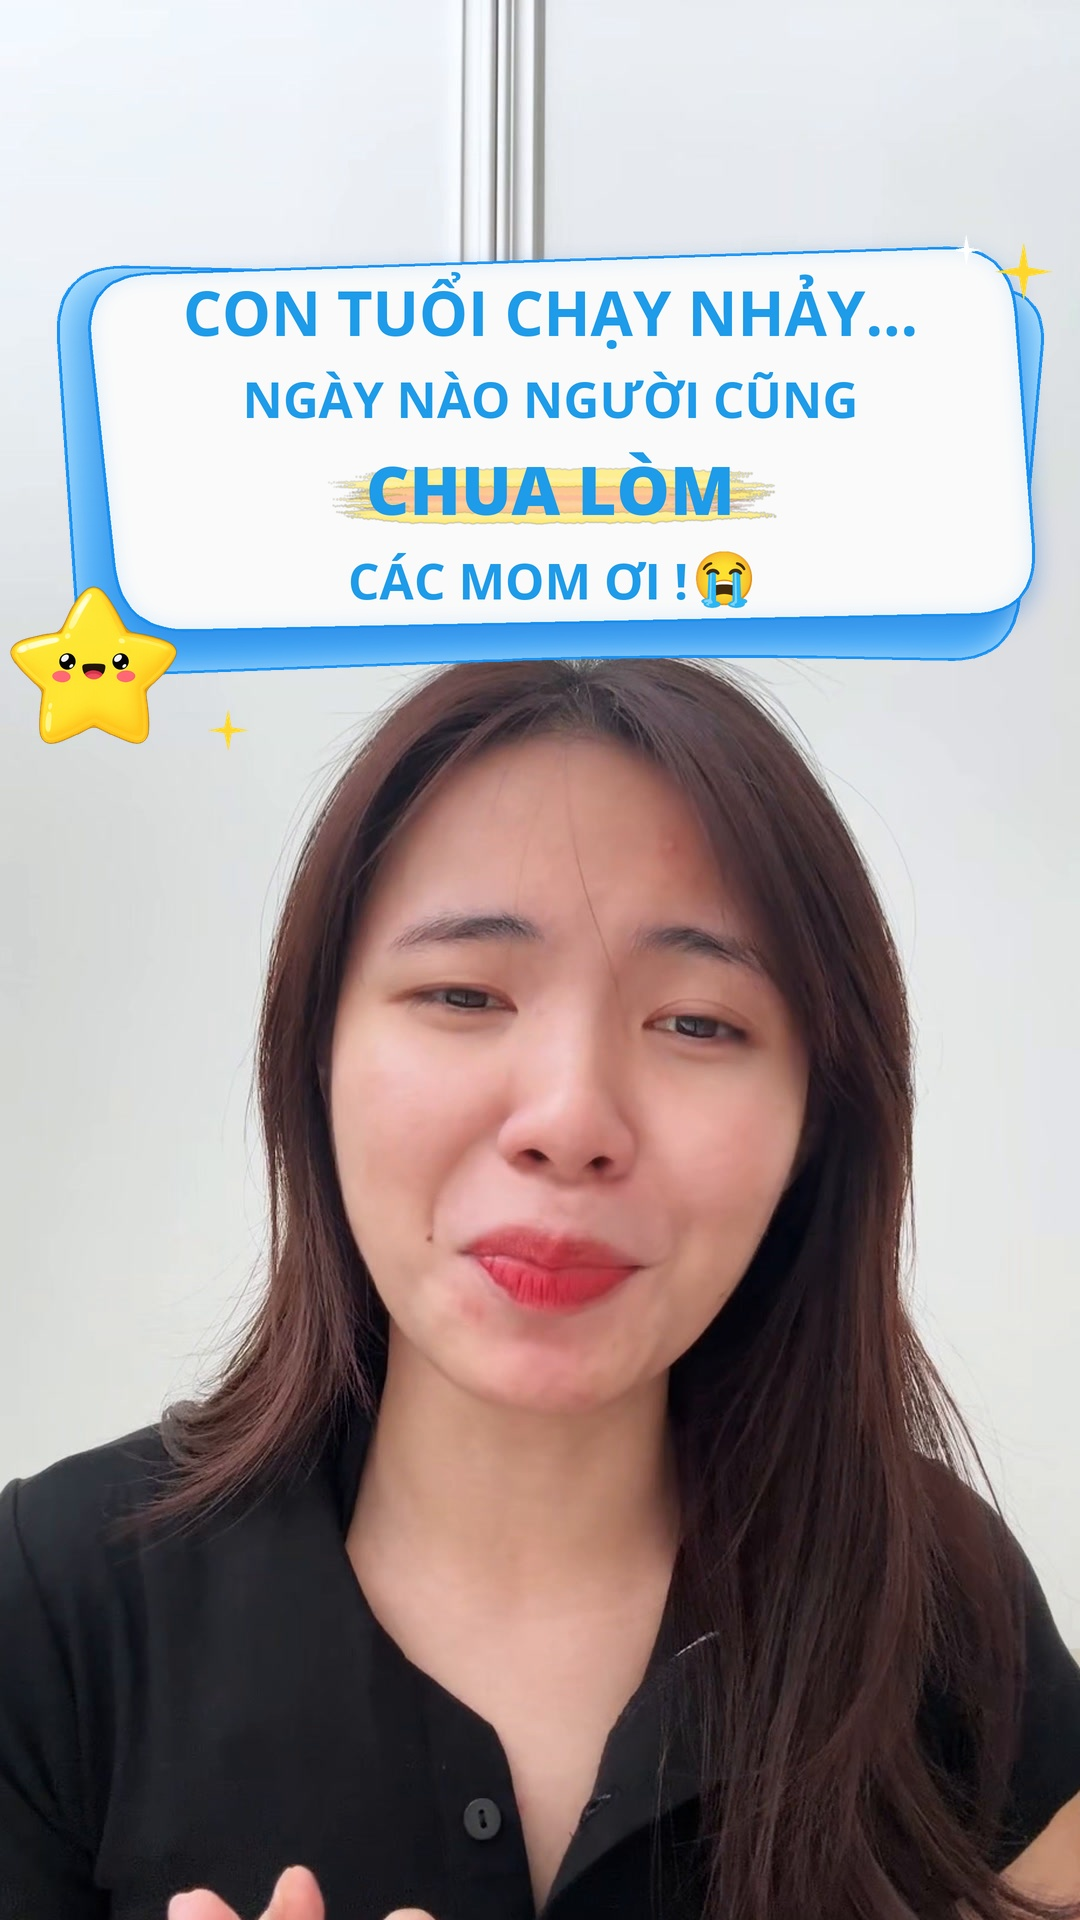
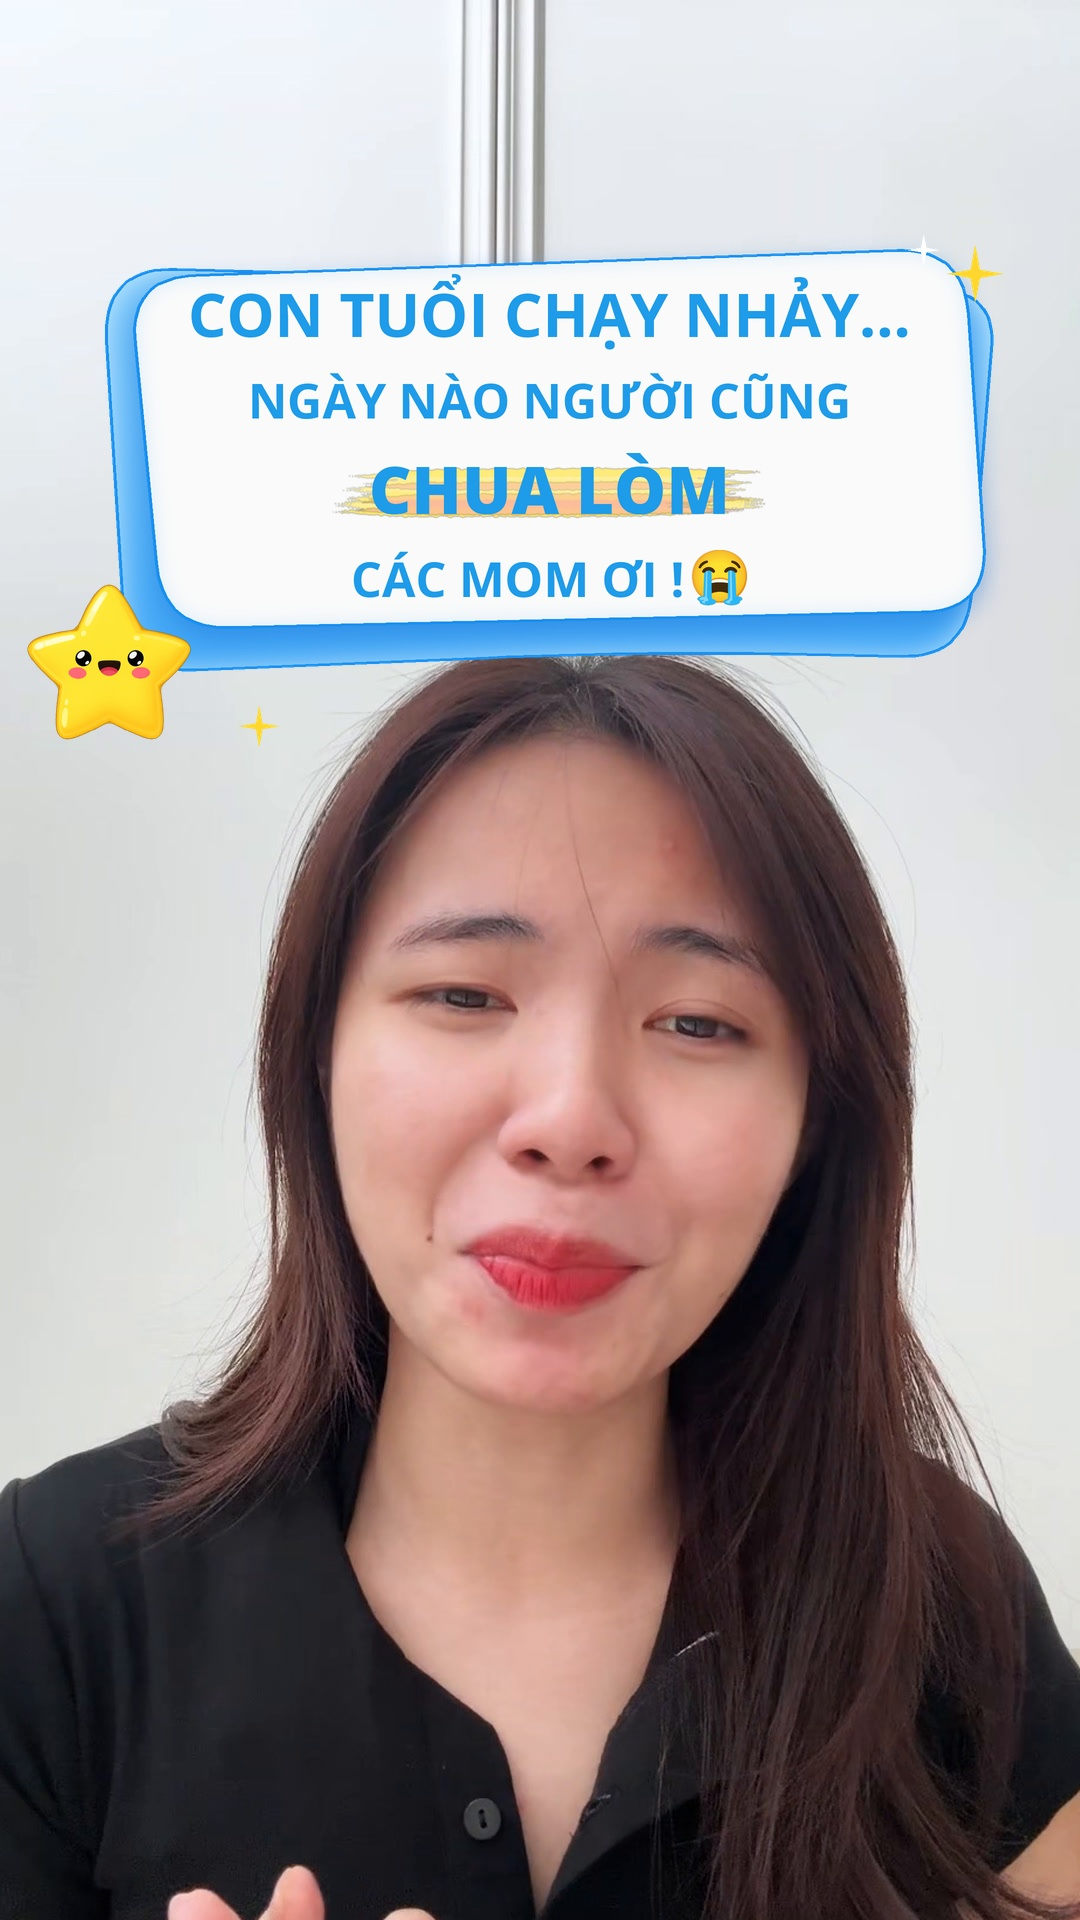
Shrink the card to 90% so no corner is lost in the TikTok grid
Card width, text and star scale by TL_KHUNG=0.9 and the star sits at the
card's corner instead of the image edge; the card is centered between the
top of the 3:4 tile and the head when there is room. Re-render all 15
covers and the grid preview.

Claude-Session: https://claude.ai/code/session_01Ug3WuR9fbtqxhsVyfjB7mN

Changed region(s): [[0.0, 0.125, 0.9778, 0.4062], [0.3056, 0.3438, 0.3667, 0.375]]

diff --git a/.claude/skills/tao-anh-bia/scripts/tao_anh_bia.py b/.claude/skills/tao-anh-bia/scripts/tao_anh_bia.py
@@ -554,7 +554,7 @@ def chon_co_chu(dong, rong_toi_da, ty_le=1.0):
             base = 70
         else:
             base = 56 if n >= 3 else 62
-        size = s(base * ty_le)
+        size = s(base * ty_le * TL_KHUNG)
         rong = rong_toi_da
         if n >= 2 and i == n - 1:
             rong -= LE_SAO  # dòng cuối chừa chỗ cho ngôi sao ở góc dưới
@@ -685,7 +685,9 @@ def nen_9_16(path, day_xuong=0):
     return im
 
 
-RONG_CHU = s(840)  # bề rộng tối đa của một dòng chữ
+# Cỡ khung so với bản gốc: 0.9 để khung gọn, không sát mép ô ảnh bìa TikTok
+TL_KHUNG = 0.9
+RONG_CHU = s(840 * TL_KHUNG)  # bề rộng tối đa của một dòng chữ
 
 
 def kich_thuoc_khung(dong, ty_le=1.0):
@@ -693,7 +695,7 @@ def kich_thuoc_khung(dong, ty_le=1.0):
     chon_co_chu(dong, RONG_CHU, ty_le)
     gap = s(10 * ty_le)
     hc = sum(d.chieu_cao() for d in dong) + gap * (len(dong) - 1)
-    ch = max(s(330 * ty_le), int(hc / 0.64))
+    ch = max(s(330 * ty_le * TL_KHUNG), int(hc / 0.64))
     return gap, hc, ch
 
 
@@ -717,7 +719,9 @@ def xep_khung_tranh_dau(hook, y_top, dinh_dau, le=-25):
         _, _, ch = kich_thuoc_khung(dong, k)
         cao = ch / S * DAY_KHUNG
         if y_top + cao <= gioi_han:
-            return y_top, k, 0
+            # căn khung giữa mép trên ô ảnh bìa (y=240) và đỉnh đầu, không thấp quá
+            giua = int((240 + gioi_han - cao) / 2)
+            return max(y_top, min(giua, Y_THAP_NHAT)), k, 0
         if y_min + cao <= gioi_han:
             return int(gioi_han - cao), k, 0
     k = 1.0 - 0.04 * 4
@@ -772,6 +776,7 @@ def tim_dinh_dau(anh):
 # TikTok hiển thị ảnh bìa trên trang cá nhân dạng 3:4 (cắt ~240px trên và dưới),
 # nên khung phải nằm trong vùng này để luôn thấy trọn vẹn.
 VUNG_AN_TOAN_TREN = 250
+Y_THAP_NHAT = 330  # khi còn nhiều chỗ, khung không xuống thấp hơn mức này
 Y_MAC_DINH = 258
 
 
@@ -781,7 +786,7 @@ def tao_lop_phu(hook, sao="trai", diem_nhan="tu-dong", y_top=Y_MAC_DINH, ty_le=1
         raise SystemExit("Hook trống.")
     seed = int(hashlib.md5(hook.encode()).hexdigest()[:8], 16)
 
-    cw = s(1040)
+    cw = s(1040 * TL_KHUNG)
     gap, hc, ch = kich_thuoc_khung(dong, ty_le)
 
     layer = Image.new("RGBA", (W * S, H * S), (0, 0, 0, 0))
@@ -878,9 +883,9 @@ def tao_lop_phu(hook, sao="trai", diem_nhan="tu-dong", y_top=Y_MAC_DINH, ty_le=1
         ve_tim(dr, x0 + cw * 0.14, y0 + ch * 0.02, s(12), (255, 180, 205))
 
     if sao != "an":
-        st = ve_ngoi_sao(s(190 * max(ty_le, 0.85)))
+        st = ve_ngoi_sao(s(190 * TL_KHUNG * max(ty_le, 0.85)))
         # giữ trọn ngôi sao trong ảnh, cách mép 10px
-        sx = s(10) if sao == "trai" else W * S - st.width - s(10)
+        sx = x0 - s(45) if sao == "trai" else x0 + cw - st.width + s(45)
         sy = int(y0 + ch * 0.9 - st.height / 2)
         layer.alpha_composite(st, (int(sx), sy))
 
